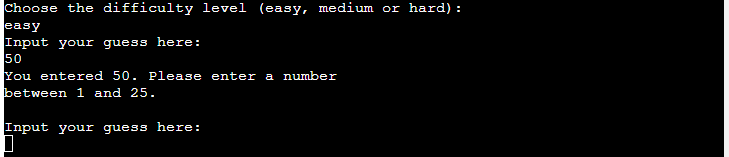
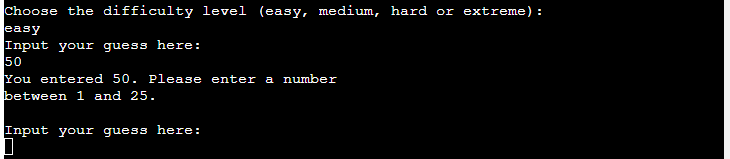
Making additions to the README file

diff --git a/run.py b/run.py
@@ -31,7 +31,7 @@ def check_difficulty():
             return difficulty
         else:
             print(
-                """Sorry, please select one of the difficulty options:
+                """Sorry, please enter one of the difficulty options:
 easy, medium, hard or extreme.\n"""
             )
 

diff --git a/README.md b/README.md
@@ -7,8 +7,8 @@ The user has five attempts to correctly guess the number the game has randomly s
 
 ![Responsive mockup](assets/images/higher-or-lower-mockup.png)
 
-## Flow chart
-I designed a flow chart to show the logic as the user progresses through the game.
+## Game logic
+The below flow chart shows the game logic as the user progresses.
 
 ![Flow chart](assets/images/project-flow-chart.png)
 
@@ -17,11 +17,21 @@ The game begins with an introduction that explains what the user needs to do and
 
 ![Opening message and choosing difficulty](assets/images/opening-and-difficulty.png)
 
-Once a difficulty has been selected a number is randomly generated and the terminal asks the user to input their first guess. Easy is a number between 1 and 25 as it still poses a challenge but with 5 attempts it is definitely doable. Medium is 1 to 100 as that feels like a normal challenge and hard is between 1 and 200 to pose a proper challenge. I then later added in the extreme difficulty of 1 to 1000 for people who are looking for a real challenge. 
+Once a difficulty has been selected, a number is randomly generated, and the terminal asks the user to input their first guess. The ranges for each difficulty level are as follows:
+
+ - Easy: 1 to 25
+ - Medium: 1 to 100
+ - Hard: 1 to 200
+ - Extreme: 1 to 1000
 
 ![Input guess](assets/images/input-guess.png)
 
-After each guess has been made the user is given feedback, letting them know how many attempts they have left, whether they need to guess a higher or lower number and also a temperature system to give them some idea of how close to the answer they are. If the user guesses a number within 2 of the correct they receive the message "You're scorching!" so they know they are very close to the correct answer. The message is "You're warm." if they are within 10 and "You're cold." if they are within 25. If their guess is over 25 then they receive the message "You're freezing.". 
+After each guess, the user receives feedback, indicating how many attempts they have left, whether they need to guess a higher or lower number, and a temperature system to hint how close they are to the correct answer. The feedback messages are:
+
+ - "You're scorching!" if within 2 of the correct answer.
+ - "You're warm." if within 10.
+ - "You're cold." if within 25.
+ - "You're freezing." if over 25 away.
 
 ![Feedback](assets/images/feedback.png)
 
@@ -50,9 +60,21 @@ Where the user needs to input data I have tested the input in the following ways
  - A space before and after the input.
  - Empty data input
 
- All possible responses are handled by the code and where necessary they ask the user to input their response in the correct format. The user receives a message if their guess is outside the range. For example if they choose "easy" and then guess a number higher than 25 they receive some feedback asking for another guess within the range.
+ All possible responses are handled by the code and where necessary they ask the user to input their response in the correct format. The user receives a message if their guess is outside the range. For example if they choose "easy" and then guess a number higher than 25 they receive some feedback asking for another guess within the range without using up one of their attempts.
 
  ![Outside the range feedback](assets/images/range-feedback.png)
+
+ The below is the response if something other than the difficulty options is entered.
+
+ ![Wrong difficulty input](assets/images/wrong-difficulty-input.png)
+
+ The below is the response if the user inputs some letters rather than a number when making a guess.
+
+ ![Not a number](assets/images/not-number-input.png)
+
+ The below is the reponse if anything other than yes or no is entered when asked about playing another game.
+
+ ![Yes or no input](assets/images/yes-no-input.png)
 
  ## Deployment
  This project has been deployed on the Code Institute's mock terminal for Heroku.
